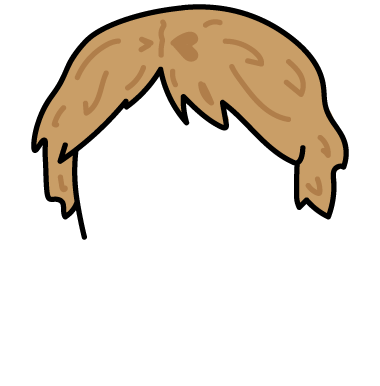
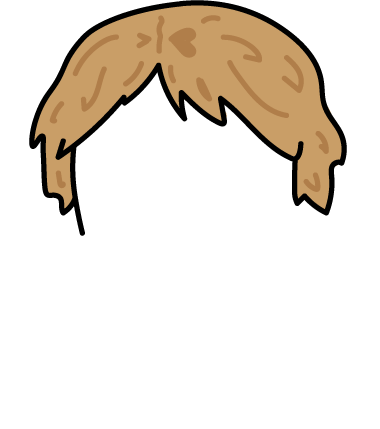
Responsivo

Changed region(s): [[0.0579, 0.0, 0.9263, 0.6218]]

diff --git a/characterselection.css b/characterselection.css
@@ -3,12 +3,13 @@ body {
 }
 
 .corpo_costumizar {
-    margin: 50px;
+    padding: 3%;
     display: flex;
     flex-direction: column;
     align-items: center;
     gap: 100px;
     overflow: visible;
+    height: 100vh;
 }
 
 .titulo {
@@ -18,89 +19,57 @@ body {
     align-items: center;
     color: #3ac3d8;
     letter-spacing: 2px;
+    overflow: visible;
 }
 
 .escolher_elementos {
-    width: 90%;
+    width: 100%;
     display: flex;
     flex-direction: column;
     align-items: center;
-    margin: 0px 100px;
-
     gap: 0px;
-    overflow: visible;
-}
-
-.escolher_elementos1 {
-    width: 90%;
-    display: flex;
-    flex-direction: column;
-    align-items: center;
-    position: absolute;
-    bottom: 40%;
-    overflow: visible;
+    overflow: visible;  
+    position: relative;
 }
 
 .escolher_cabelo {
-    height: 400px;
     align-items: flex-start;
-    position: relative;
-    top: 38vh;
+    position: absolute;
+    top: -4.8vh;
     overflow: visible;
-
-}
-
-#left_hair {
-    width: 70px;
-    height: auto;
-}
-
-#right_hair {
-    width: 70px;
-    height: auto;
 }
 
 #hair {
-    width: 28%;
+    height: 50vh;
+    width: auto;
 }
 
 .escolher_olhos {
-    align-items: center;
-    position: relative;
-    top: 5vh;
+    align-items: flex-start;
+    position: absolute;
+    top: 14.8vh;
     overflow: visible;
-
 }
 
 #eyes {
-    width: 13%;
-}
-
-#left_eyes {
-    width: 70px;
-    height: auto;
-}
-
-#right_eyes {
-    width: 70px;
-    height: auto;
+    height: 5.3vh;
+    width: auto;
 }
 
 .escolher_boca {
-    align-items: center;
-    position: relative;
-    top: 9.5vh;
+    align-items: flex-start;
+    position: absolute;
+    top: 26vh;
     overflow: visible;
-
 }
 
-#left_mouth {
-    width: 70px;
-    height: auto;
+#mouth {
+    height: 5vh;
+    width: auto;
 }
 
-#right_mouth {
-    width: 70px;
+#right_mouth, #left_mouth, #right_eyes, #left_eyes, #left_hair, #right_hair {
+    width: 80px;
     height: auto;
 }
 
@@ -128,7 +97,7 @@ body {
 }
 
 .chose {
-    width: 100%;
+    width: 60%;
     display: flex;
     justify-content: space-between;
     flex-direction: row;
@@ -139,5 +108,6 @@ body {
 }
 
 #escolher_cara {
-    width: 27.5%;
+    height: 45vh;
+    width: auto;
 }

diff --git a/characterselection.html b/characterselection.html
@@ -18,7 +18,6 @@
 
         <div class="escolher_elementos">
             <img src="./images/cara.png" class="static" alt="Cara do personagem" id="escolher_cara">
-            <div class="escolher_elementos1">
                 <div class="escolher_cabelo chose">
                     <img src="./images/setal.png" class="static arrow" id="left_hair"
                         alt="Seta para a esquerda para mudar o cabelo">
@@ -42,7 +41,6 @@
                     <img src="./images/setad.png" class="static arrow" id="right_mouth"
                         alt="Seta para a direita para mudar a boca">
                 </div>
-            </div>
         </div>
         <a href="openticket.html" id="botaodenext">
             <button id="botao_costumize">Continue</button>
